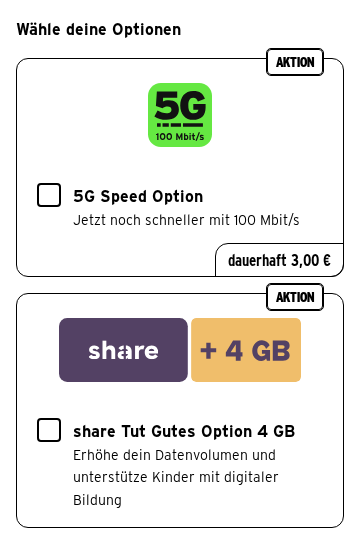
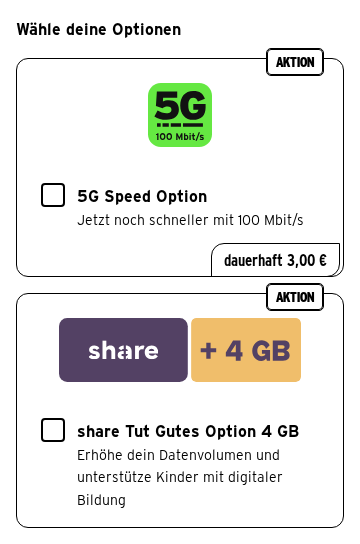
local

diff --git a/dek/packages/react/src/components/Input/SelectionBox/shared/Base/Base.styles.ts b/dek/packages/react/src/components/Input/SelectionBox/shared/Base/Base.styles.ts
@@ -15,22 +15,35 @@ import { Brand, getFocusStyles } from "../../../../../theme/theme";
 import { textColorMixin } from "../../../../Typography/themeBackgroundColorMapping";
 import { TypographyVariant } from "../../../../Typography/Typography";
 import { up } from "../../../../../theme/mappings/mediaBreakpoints";
+import { HeaderImageWrapper } from "../../../../Card/CardFilled/CardFilled.styles";
 
 export const Root = styled(CardFilled.Root)`
   ${({ theme }) => {
     const brand = theme.contextSpecific.brand;
+    const congstarWebOffset = theme.mediaBreakpoints.lg
+      ? theme.space[24]
+      : theme.space[20];
     return css`
       position: relative;
       background-color: ${theme.color[
         boxColorMapping[theme.contextSpecific.backgroundColor].backgroundColor
       ]};
       cursor: pointer;
+
       ${brand === "congstarWeb"
-        ? `padding-left: ${theme.space[20]};
-      padding-right: ${theme.space[20]};
+        ? `padding-left: ${congstarWebOffset};
+      padding-right: ${congstarWebOffset};
+        ${HeaderImageWrapper} {
+        margin-right: calc(${congstarWebOffset} * -1 + ${theme.space["04"]});
+        margin-left: calc(${congstarWebOffset} * -1 + ${theme.space["04"]});
+      }
       ${up("md")} {
-        padding-left: ${theme.space[24]};
-        padding-right: ${theme.space[24]};
+        padding-left: ${congstarWebOffset};
+        padding-right: ${congstarWebOffset};
+        ${HeaderImageWrapper} {
+        margin-right: calc(${congstarWebOffset} * -1 + ${theme.space["04"]});
+        margin-left: calc(${congstarWebOffset} * -1 + ${theme.space["04"]});
+      }
       };`
         : ``}
       @media (hover: hover) {

diff --git a/dek/packages/react/src/components/Card/CardFilled/CardFilled.styles.ts b/dek/packages/react/src/components/Card/CardFilled/CardFilled.styles.ts
@@ -151,9 +151,8 @@ export const PromotionTop = styled(LabelPromoted)`
 export const HeaderImageWrapper = styled.div<{
   $headerImageSize: CardFilledHeaderImageSize;
   $size: CardSize;
-  $headerImageSidePaddingCorrection?: boolean;
 }>`
-  ${({ theme, $headerImageSize, $size, $headerImageSidePaddingCorrection }) => {
+  ${({ theme, $headerImageSize, $size }) => {
     return css`
       box-sizing: border-box;
       background-color: ${theme.color[
@@ -181,34 +180,6 @@ export const HeaderImageWrapper = styled.div<{
           ]} *
           -1 + ${theme.space["04"]}
       );
-      ${$headerImageSidePaddingCorrection &&
-      theme.contextSpecific.brand === "congstarWeb"
-        ? css`
-            margin-right: calc(
-              ${theme.space[20]} * -1 + ${theme.space["04"]}
-            );
-            margin-left: calc(
-              ${theme.space[20]} * -1 + ${theme.space["04"]}
-            );
-
-            ${up("md")} {
-              margin-right: calc(
-                ${theme.space[
-                    CardOptionMap[theme.contextSpecific.brand][$size].desktop
-                      .paddingX
-                  ]} *
-                  -1 + ${theme.space["04"]}
-              );
-              margin-left: calc(
-                ${theme.space[
-                    CardOptionMap[theme.contextSpecific.brand][$size].desktop
-                      .paddingX
-                  ]} *
-                  -1 + ${theme.space["04"]}
-              );
-            }
-          `
-        : ``}
       ${up("md")} {
         margin-top: calc(
           ${theme.space[

diff --git a/dek/packages/react/src/components/Card/CardFilled/CardFilled.tsx b/dek/packages/react/src/components/Card/CardFilled/CardFilled.tsx
@@ -52,7 +52,6 @@ export const Root = forwardRef<ElementRef<typeof Styled.Root>, CardFilledProps>(
       promotionTop,
       headerImage,
       headerImageSize = "medium",
-      headerImageSidePaddingCorrection,
       promotionTopId,
       ...rest
     } = props;
@@ -89,9 +88,6 @@ export const Root = forwardRef<ElementRef<typeof Styled.Root>, CardFilledProps>(
               <Styled.HeaderImageWrapper
                 $headerImageSize={headerImageSize}
                 $size={props.size}
-                $headerImageSidePaddingCorrection={
-                  headerImageSidePaddingCorrection
-                }
               >
                 {headerImage}
               </Styled.HeaderImageWrapper>

diff --git a/dek/packages/react/src/components/Input/SelectionBox/SelectionBoxCheckbox/SelectionBoxCheckbox.test-visual-ct.tsx b/dek/packages/react/src/components/Input/SelectionBox/SelectionBoxCheckbox/SelectionBoxCheckbox.test-visual-ct.tsx
@@ -98,6 +98,15 @@ testDescribeAllowedBackgrounds(
       await expect(selectionBoxCheckboxPage.root).toHaveScreenshot();
     });
 
+    test.describe("Should render selectionBoxCheckbox", () => {
+      test.use(viewports.sm);
+      test(`on mobile`, async ({ mount, selectionBoxCheckboxPage }) => {
+        await mount(<BackgroundStory />);
+        await expect(selectionBoxCheckboxPage.root).toBeVisible();
+        await expect(selectionBoxCheckboxPage.root).toHaveScreenshot();
+      });
+    });
+
     test(`Should render selectionBoxCheckbox in hover state`, async ({
       mount,
       selectionBoxCheckboxPage,

diff --git a/dek/packages/react/src/components/Input/SelectionBox/SelectionBoxRadio/SelectionBoxRadio.test-visual-ct.tsx b/dek/packages/react/src/components/Input/SelectionBox/SelectionBoxRadio/SelectionBoxRadio.test-visual-ct.tsx
@@ -96,6 +96,15 @@ testDescribeAllowedBackgrounds(
       await expect(selectionBoxRadioPage.root).toHaveScreenshot();
     });
 
+    test.describe("Should render selectionBoxRadio", () => {
+      test.use(viewports.sm);
+      test(`on mobile`, async ({ mount, selectionBoxRadioPage }) => {
+        await mount(<BackgroundStory />);
+        await expect(selectionBoxRadioPage.root).toBeVisible();
+        await expect(selectionBoxRadioPage.root).toHaveScreenshot();
+      });
+    });
+
     test(`Should render selectionBoxRadio in hover state`, async ({
       mount,
       selectionBoxRadioPage,

diff --git a/dek/packages/react/src/components/Input/SelectionBox/shared/Base/Base.tsx b/dek/packages/react/src/components/Input/SelectionBox/shared/Base/Base.tsx
@@ -21,7 +21,6 @@ export const Base = (props: BaseProps) => {
     interactiveElement,
     headerImage,
     headerImageSize,
-    headerImageSidePaddingCorrection,
     interactiveElementRef,
     contentId,
     onBoxClick,
@@ -93,7 +92,6 @@ export const Base = (props: BaseProps) => {
       promotionTopId={promotionTopId}
       headerImage={headerImage}
       headerImageSize={headerImageSize}
-      headerImageSidePaddingCorrection={headerImageSidePaddingCorrection}
       backgroundColor={boxColorBackground as CardFilledColor}
       size="small"
       onClick={handleFreeAreaClick}

diff --git a/dek/packages/react/src/components/Input/SelectionBox/shared/Base/Base.types.ts b/dek/packages/react/src/components/Input/SelectionBox/shared/Base/Base.types.ts
@@ -11,7 +11,6 @@ export interface BaseProps extends ComponentPropsWithoutRef<"div"> {
   contentIfSelected?: ReactNode;
   headerImage?: ReactNode;
   headerImageSize?: CardFilledHeaderImageSize;
-  headerImageSidePaddingCorrection?: boolean;
   children?: ReactNode;
   contentId: string;
   duration?: DurationOption;

diff --git a/dek/packages/react/src/components/Input/SelectionBox/SelectionBoxRadio/SelectionBoxRadio.tsx b/dek/packages/react/src/components/Input/SelectionBox/SelectionBoxRadio/SelectionBoxRadio.tsx
@@ -100,7 +100,6 @@ const Item = forwardRef<
         contentIfSelected={contentIfSelected}
         headerImage={headerImage}
         headerImageSize={headerImageSize}
-        headerImageSidePaddingCorrection={!!headerImage}
         contentId={contentId}
         subText={subText}
         duration={duration}

diff --git a/dek/packages/react/src/components/Input/SelectionBox/SelectionBoxCheckbox/SelectionBoxCheckbox.tsx b/dek/packages/react/src/components/Input/SelectionBox/SelectionBoxCheckbox/SelectionBoxCheckbox.tsx
@@ -96,7 +96,6 @@ const Item = forwardRef<
         contentIfSelected={contentIfSelected}
         headerImage={headerImage}
         headerImageSize={headerImageSize}
-        headerImageSidePaddingCorrection={!!headerImage}
         contentId={contentId}
         subText={subText}
         duration={duration}

diff --git a/dek/packages/react/src/components/Card/CardFilled/CardFilled.types.ts b/dek/packages/react/src/components/Card/CardFilled/CardFilled.types.ts
@@ -22,7 +22,6 @@ export interface CardFilledProps extends CardProps {
   promotionTopId?: string;
   headerImage?: ReactNode;
   headerImageSize?: CardFilledHeaderImageSize;
-  headerImageSidePaddingCorrection?: boolean;
 }
 
 export interface CardFilledFooterProps
